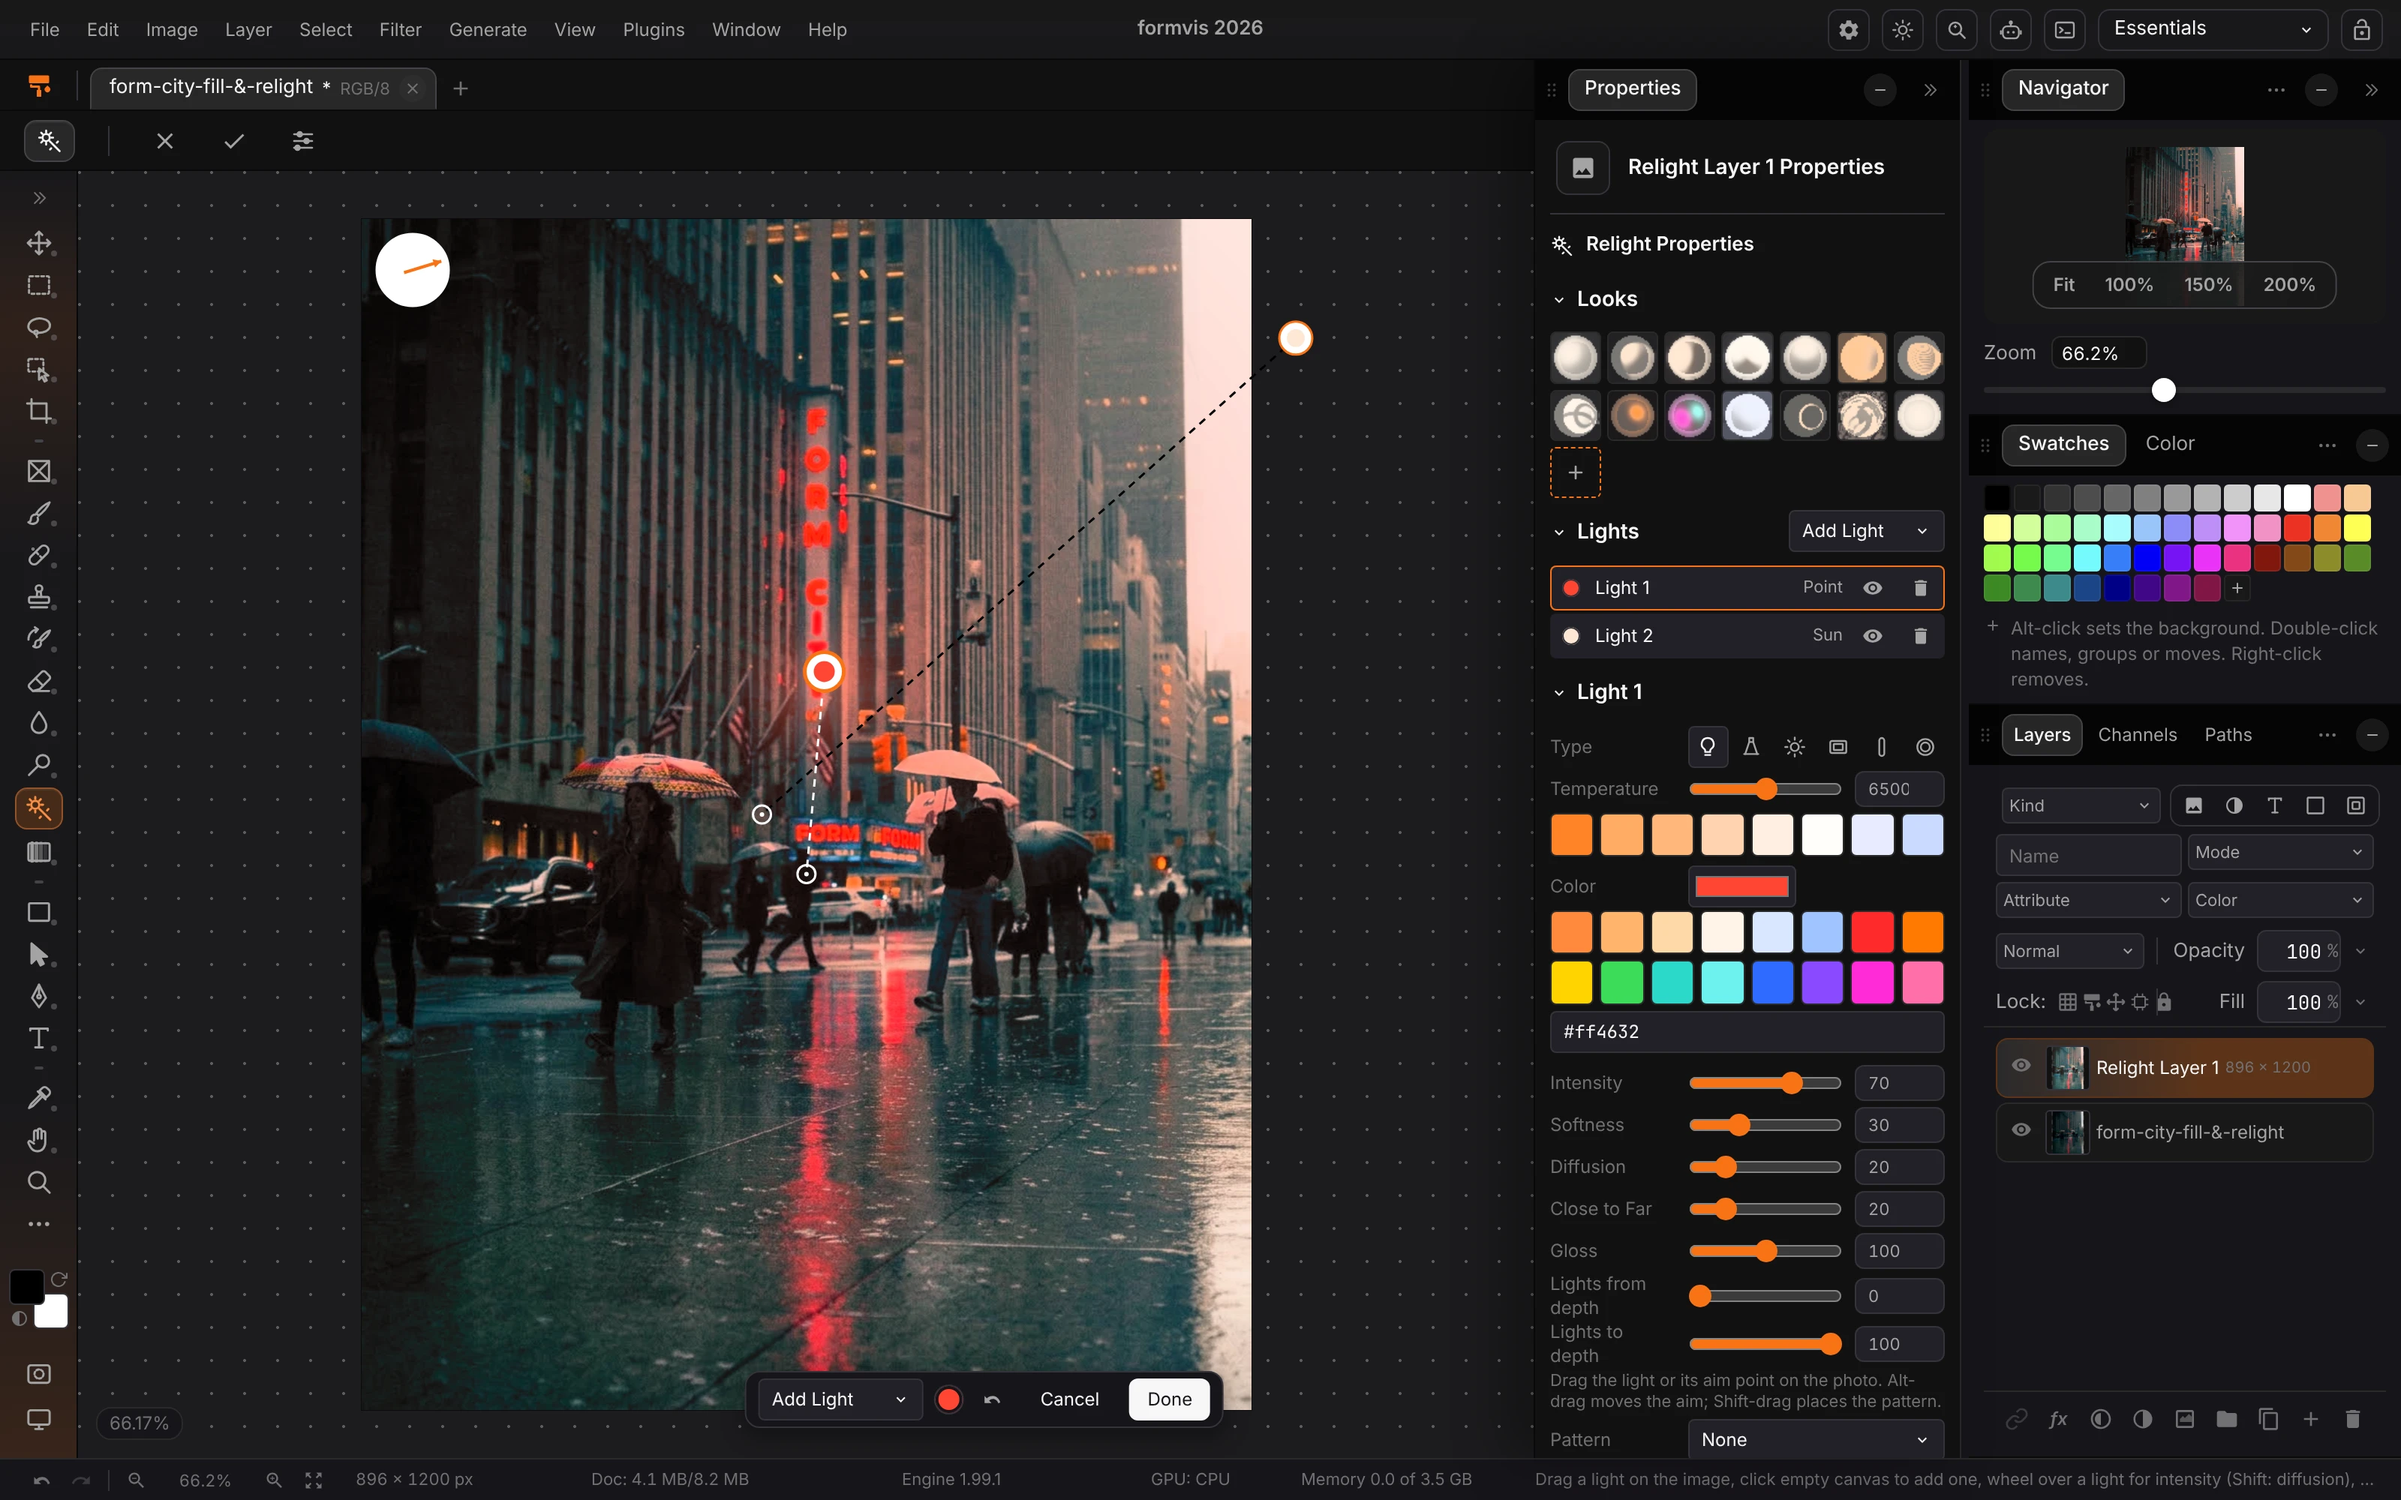
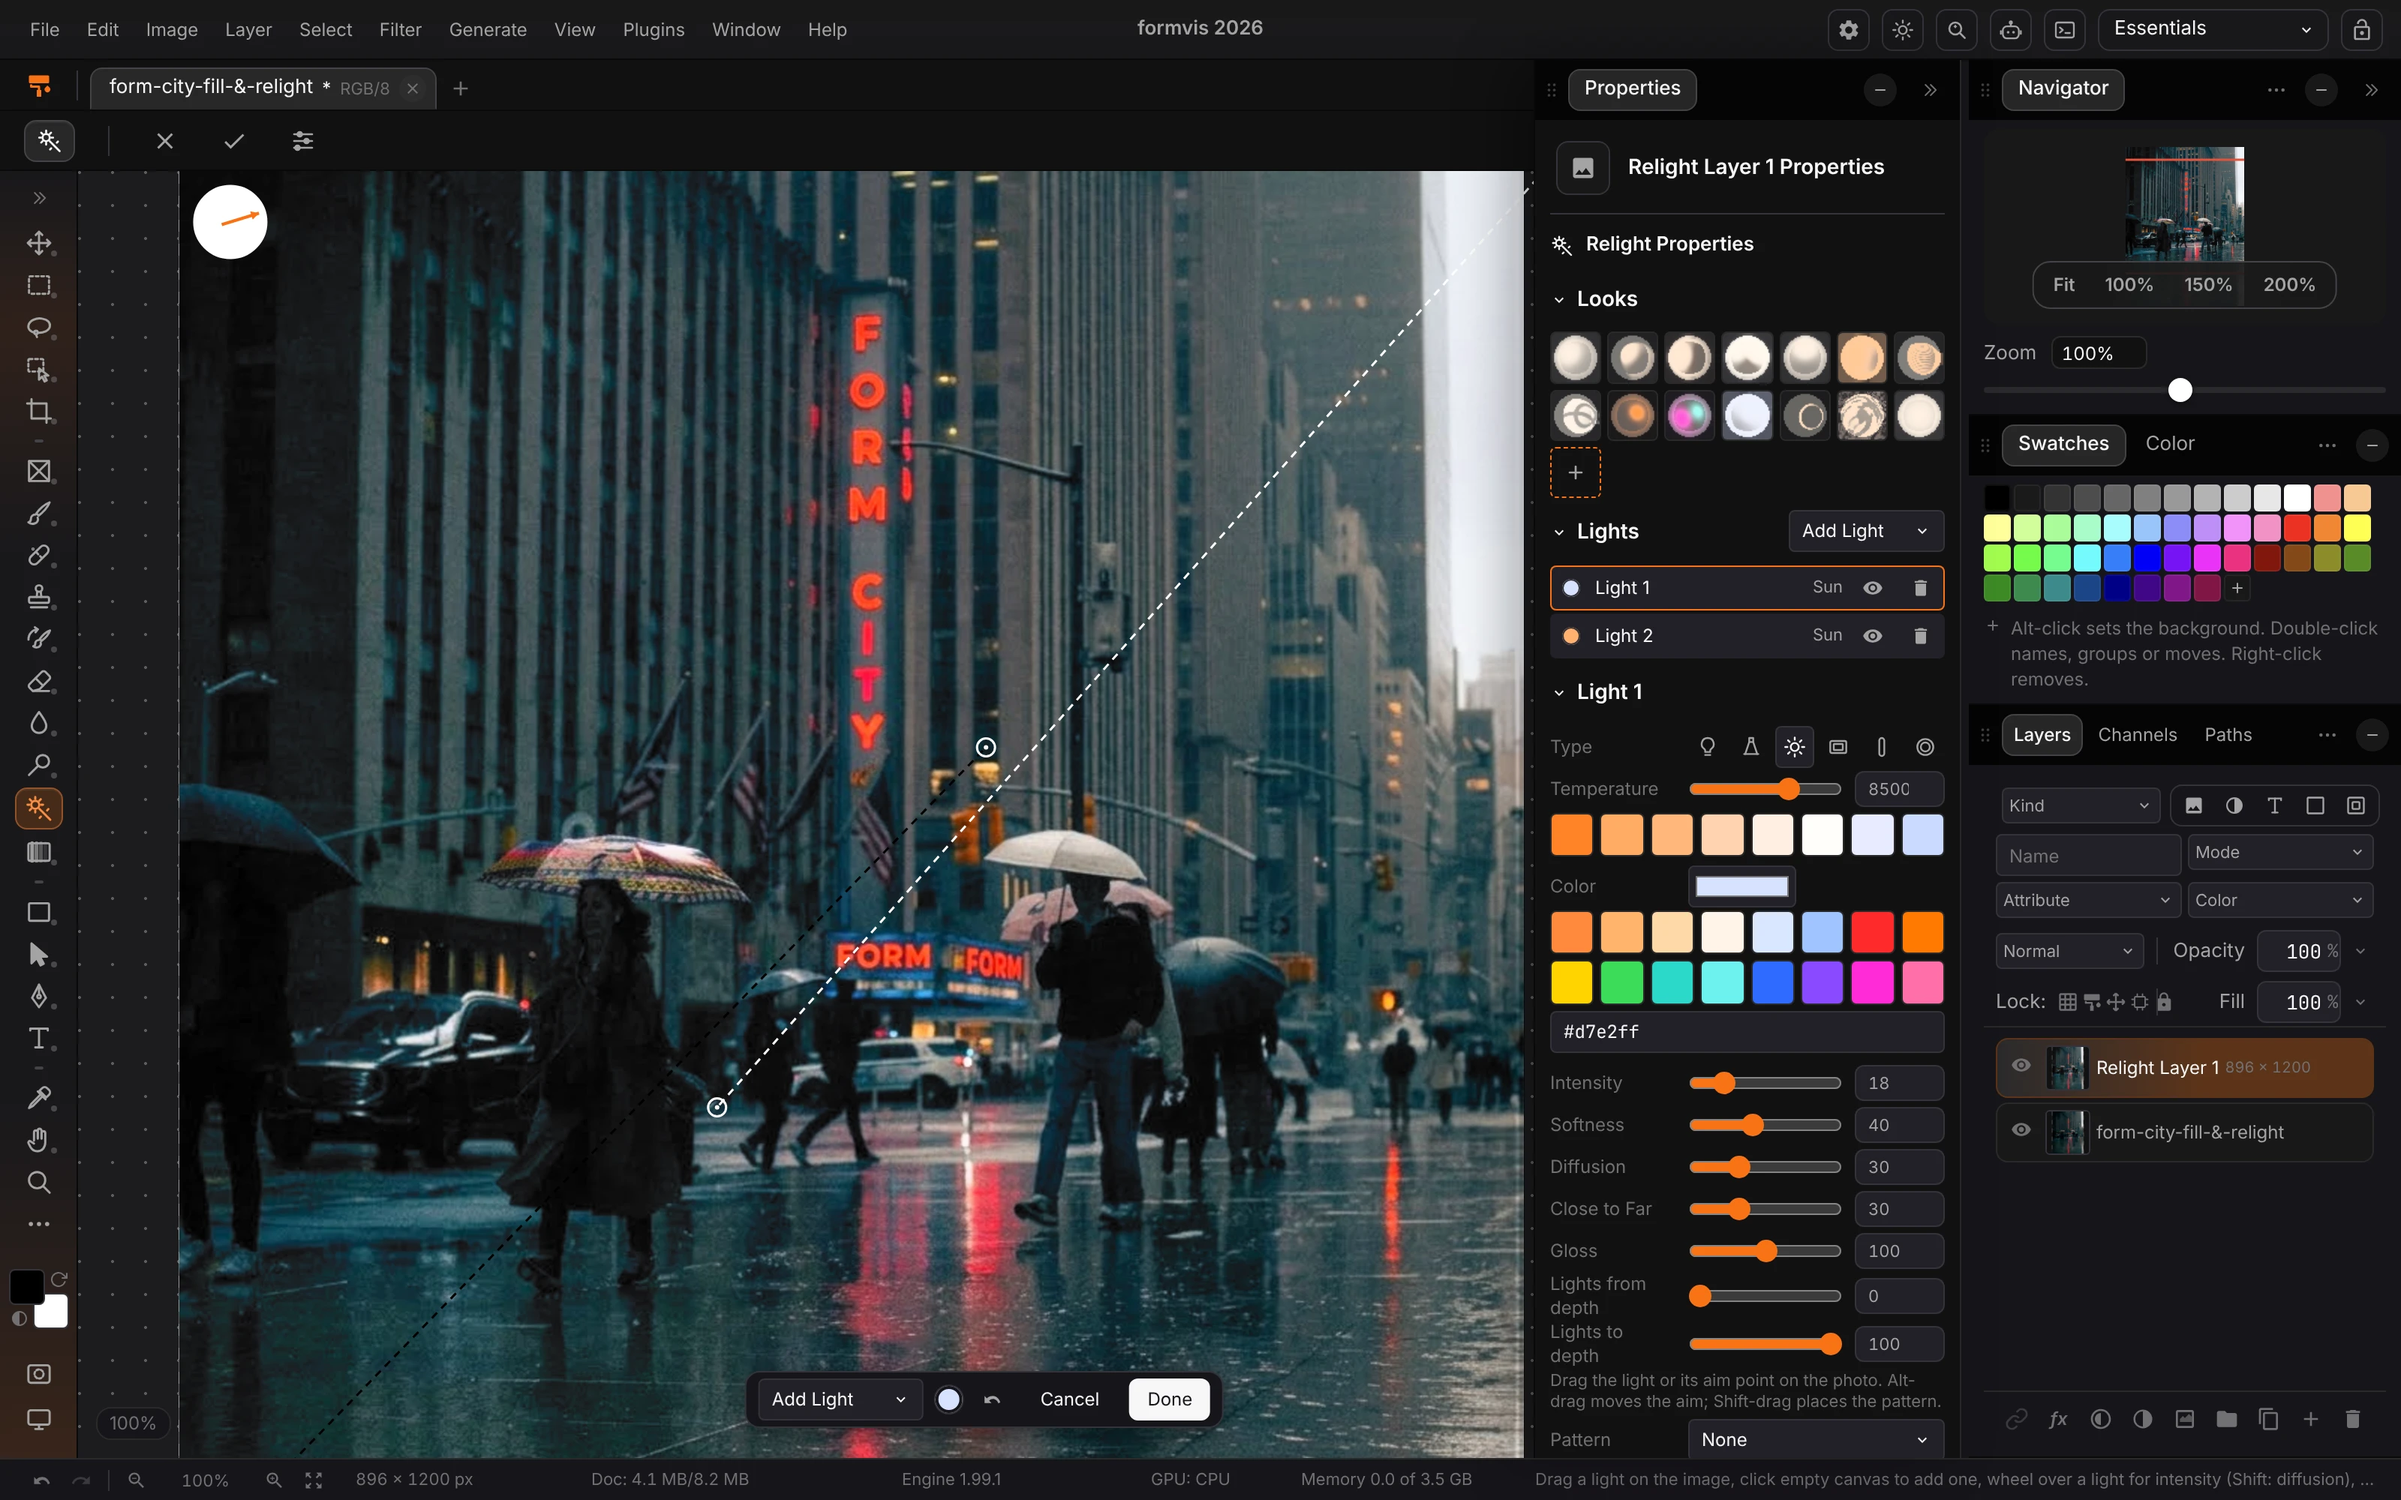
docs(images): readable neon in the relight hero

diff --git a/README.md b/README.md
@@ -11,7 +11,7 @@
 </p>
 
 <p align="center">
-  <img alt="version 1.98.10" src="https://img.shields.io/badge/version-1.98.10-eef0f4?style=flat-square">
+  <img alt="version 1.99.1" src="https://img.shields.io/badge/version-1.99.1-eef0f4?style=flat-square">
   <img alt="TypeScript" src="https://img.shields.io/badge/TypeScript-Vite-3178c6?style=flat-square&logo=typescript&logoColor=white">
   <img alt="Python" src="https://img.shields.io/badge/Python-FastAPI-3776ab?style=flat-square">
   <img alt="macOS, Windows, Linux" src="https://img.shields.io/badge/macOS%20%C2%B7%20Windows%20%C2%B7%20Linux-native-2f7bf5?style=flat-square">
@@ -28,9 +28,9 @@
 <br>
 
 <p align="center">
-  <img src="docs/images/formvis-hero.webp" alt="FormVis with a rainy city street at dusk open in the document form-city-fill-&-relight: the Relight panel with a red point light on the neon FORM CITY sign and a cool sun light, and the Relight layer above the photo in the layers panel" width="100%">
+  <img src="docs/images/formvis-hero.webp" alt="FormVis with a rainy city street at dusk open in the document form-city-fill-&-relight: the Relight panel with a soft cool key light from the upper right and a faint warm rim, the neon FORM CITY and FORM FORM signs still crisp red and readable, and the Relight layer above the photo in the layers panel" width="100%">
   <br>
-  <sub>Relight at work: two virtual lights placed on the photo, their controls in the Properties panel, and the Relight layer above the original.</sub>
+  <sub>Relight at work: a cool key and a warm rim placed on the photo, with the neon left untouched; their controls are in the Properties panel and the Relight layer sits above the original.</sub>
 </p>
 
 <p align="center">
